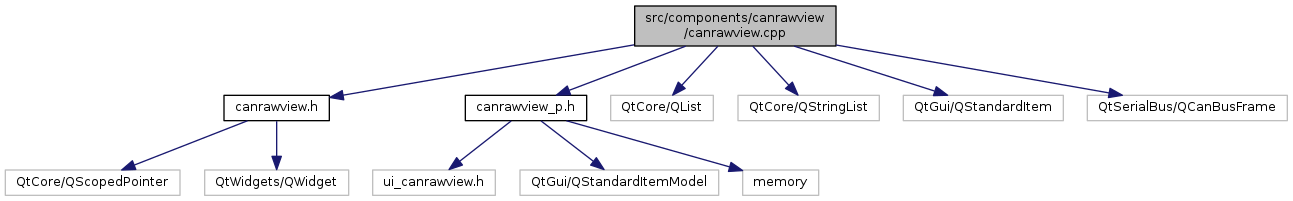
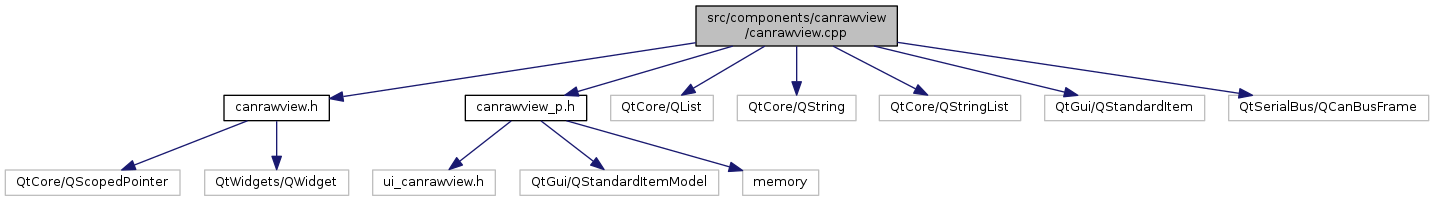
Deploy code docs to GitHub Pages Travis build: 132
Commit: 1a613c3db6896289bec6ee7756dc2443230962a5

diff --git a/master/canrawview_8h_source.html b/master/canrawview_8h_source.html
@@ -108,12 +108,12 @@ $(document).ready(function(){initNavTree('canrawview_8h_source.html','');});
 <div class="title">canrawview.h</div>  </div>
 </div><!--header-->
 <div class="contents">
-<a href="canrawview_8h.html">Go to the documentation of this file.</a><div class="fragment"><div class="line"><a name="l00001"></a><span class="lineno">    1</span>&#160;<span class="preprocessor">#ifndef CANRAWVIEW_H</span></div><div class="line"><a name="l00002"></a><span class="lineno">    2</span>&#160;<span class="preprocessor">#define CANRAWVIEW_H</span></div><div class="line"><a name="l00003"></a><span class="lineno">    3</span>&#160;</div><div class="line"><a name="l00004"></a><span class="lineno">    4</span>&#160;<span class="preprocessor">#include &lt;QtCore/QScopedPointer&gt;</span></div><div class="line"><a name="l00005"></a><span class="lineno">    5</span>&#160;<span class="preprocessor">#include &lt;QtWidgets/QWidget&gt;</span></div><div class="line"><a name="l00006"></a><span class="lineno">    6</span>&#160;</div><div class="line"><a name="l00007"></a><span class="lineno">    7</span>&#160;<span class="keyword">class </span>QCanBusFrame;</div><div class="line"><a name="l00008"></a><span class="lineno">    8</span>&#160;<span class="keyword">class </span><a class="code" href="class_can_raw_view_private.html">CanRawViewPrivate</a>;</div><div class="line"><a name="l00009"></a><span class="lineno">    9</span>&#160;</div><div class="line"><a name="l00010"></a><span class="lineno"><a class="line" href="class_can_raw_view.html">   10</a></span>&#160;<span class="keyword">class </span><a class="code" href="class_can_raw_view.html">CanRawView</a> : <span class="keyword">public</span> QWidget {</div><div class="line"><a name="l00011"></a><span class="lineno">   11</span>&#160;    Q_OBJECT</div><div class="line"><a name="l00012"></a><span class="lineno">   12</span>&#160;    Q_DECLARE_PRIVATE(<a class="code" href="class_can_raw_view.html">CanRawView</a>)</div><div class="line"><a name="l00013"></a><span class="lineno">   13</span>&#160;</div><div class="line"><a name="l00014"></a><span class="lineno">   14</span>&#160;<span class="keyword">public</span>:</div><div class="line"><a name="l00015"></a><span class="lineno">   15</span>&#160;    <span class="keyword">explicit</span> <a class="code" href="class_can_raw_view.html#aaf91e5f6b28327de98007f9ed9616088">CanRawView</a>(QWidget* parent = <span class="keyword">nullptr</span>);</div><div class="line"><a name="l00016"></a><span class="lineno">   16</span>&#160;    <a class="code" href="class_can_raw_view.html#a61e97fe7ae8b79740408311f4a243f82">~CanRawView</a>();</div><div class="line"><a name="l00017"></a><span class="lineno">   17</span>&#160;</div><div class="line"><a name="l00018"></a><span class="lineno">   18</span>&#160;<span class="keyword">public</span> Q_SLOTS:</div><div class="line"><a name="l00019"></a><span class="lineno">   19</span>&#160;    <span class="keywordtype">void</span> <a class="code" href="class_can_raw_view.html#ace7bb231aa483369b389d02b353a8a17">frameReceived</a>(<span class="keyword">const</span> QCanBusFrame&amp; frame);</div><div class="line"><a name="l00020"></a><span class="lineno">   20</span>&#160;    <span class="keywordtype">void</span> <a class="code" href="class_can_raw_view.html#ae5aef25b6a5ff05c8b645479972b3bcc">frameSent</a>(<span class="keywordtype">bool</span> status, <span class="keyword">const</span> QCanBusFrame&amp; frame, <span class="keyword">const</span> QVariant&amp; context);</div><div class="line"><a name="l00021"></a><span class="lineno">   21</span>&#160;</div><div class="line"><a name="l00022"></a><span class="lineno">   22</span>&#160;<span class="keyword">private</span>:</div><div class="line"><a name="l00023"></a><span class="lineno">   23</span>&#160;    QScopedPointer&lt;CanRawViewPrivate&gt; d_ptr;</div><div class="line"><a name="l00024"></a><span class="lineno">   24</span>&#160;};</div><div class="line"><a name="l00025"></a><span class="lineno">   25</span>&#160;</div><div class="line"><a name="l00026"></a><span class="lineno">   26</span>&#160;<span class="preprocessor">#endif // CANRAWVIEW_H</span></div><div class="ttc" id="class_can_raw_view_html"><div class="ttname"><a href="class_can_raw_view.html">CanRawView</a></div><div class="ttdef"><b>Definition:</b> canrawview.h:10</div></div>
-<div class="ttc" id="class_can_raw_view_html_a61e97fe7ae8b79740408311f4a243f82"><div class="ttname"><a href="class_can_raw_view.html#a61e97fe7ae8b79740408311f4a243f82">CanRawView::~CanRawView</a></div><div class="ttdeci">~CanRawView()</div><div class="ttdef"><b>Definition:</b> canrawview.cpp:17</div></div>
+<a href="canrawview_8h.html">Go to the documentation of this file.</a><div class="fragment"><div class="line"><a name="l00001"></a><span class="lineno">    1</span>&#160;<span class="preprocessor">#ifndef CANRAWVIEW_H</span></div><div class="line"><a name="l00002"></a><span class="lineno">    2</span>&#160;<span class="preprocessor">#define CANRAWVIEW_H</span></div><div class="line"><a name="l00003"></a><span class="lineno">    3</span>&#160;</div><div class="line"><a name="l00004"></a><span class="lineno">    4</span>&#160;<span class="preprocessor">#include &lt;QtCore/QScopedPointer&gt;</span></div><div class="line"><a name="l00005"></a><span class="lineno">    5</span>&#160;<span class="preprocessor">#include &lt;QtWidgets/QWidget&gt;</span></div><div class="line"><a name="l00006"></a><span class="lineno">    6</span>&#160;</div><div class="line"><a name="l00007"></a><span class="lineno">    7</span>&#160;<span class="keyword">class </span>QCanBusFrame;</div><div class="line"><a name="l00008"></a><span class="lineno">    8</span>&#160;<span class="keyword">class </span><a class="code" href="class_can_raw_view_private.html">CanRawViewPrivate</a>;</div><div class="line"><a name="l00009"></a><span class="lineno">    9</span>&#160;</div><div class="line"><a name="l00010"></a><span class="lineno"><a class="line" href="class_can_raw_view.html">   10</a></span>&#160;<span class="keyword">class </span><a class="code" href="class_can_raw_view.html">CanRawView</a> : <span class="keyword">public</span> QWidget {</div><div class="line"><a name="l00011"></a><span class="lineno">   11</span>&#160;    Q_OBJECT</div><div class="line"><a name="l00012"></a><span class="lineno">   12</span>&#160;    Q_DECLARE_PRIVATE(<a class="code" href="class_can_raw_view.html">CanRawView</a>)</div><div class="line"><a name="l00013"></a><span class="lineno">   13</span>&#160;</div><div class="line"><a name="l00014"></a><span class="lineno">   14</span>&#160;<span class="keyword">public</span>:</div><div class="line"><a name="l00015"></a><span class="lineno">   15</span>&#160;    <span class="keyword">explicit</span> <a class="code" href="class_can_raw_view.html#aaf91e5f6b28327de98007f9ed9616088">CanRawView</a>(QWidget* parent = <span class="keyword">nullptr</span>);</div><div class="line"><a name="l00016"></a><span class="lineno">   16</span>&#160;    <a class="code" href="class_can_raw_view.html#a61e97fe7ae8b79740408311f4a243f82">~CanRawView</a>();</div><div class="line"><a name="l00017"></a><span class="lineno">   17</span>&#160;</div><div class="line"><a name="l00018"></a><span class="lineno">   18</span>&#160;<span class="keyword">public</span> Q_SLOTS:</div><div class="line"><a name="l00019"></a><span class="lineno">   19</span>&#160;    <span class="keywordtype">void</span> <a class="code" href="class_can_raw_view.html#ace7bb231aa483369b389d02b353a8a17">frameReceived</a>(<span class="keyword">const</span> QCanBusFrame&amp; frame);</div><div class="line"><a name="l00020"></a><span class="lineno">   20</span>&#160;    <span class="keywordtype">void</span> <a class="code" href="class_can_raw_view.html#ae5aef25b6a5ff05c8b645479972b3bcc">frameSent</a>(<span class="keywordtype">bool</span> status, <span class="keyword">const</span> QCanBusFrame&amp; frame, <span class="keyword">const</span> QVariant&amp; context);</div><div class="line"><a name="l00021"></a><span class="lineno">   21</span>&#160;</div><div class="line"><a name="l00022"></a><span class="lineno">   22</span>&#160;<span class="keyword">private</span>:</div><div class="line"><a name="l00023"></a><span class="lineno">   23</span>&#160;    <span class="keywordtype">void</span> frameView(<span class="keyword">const</span> QCanBusFrame&amp; frame, <span class="keyword">const</span> QString&amp; direction);</div><div class="line"><a name="l00024"></a><span class="lineno">   24</span>&#160;</div><div class="line"><a name="l00025"></a><span class="lineno">   25</span>&#160;    QScopedPointer&lt;CanRawViewPrivate&gt; d_ptr;</div><div class="line"><a name="l00026"></a><span class="lineno">   26</span>&#160;};</div><div class="line"><a name="l00027"></a><span class="lineno">   27</span>&#160;</div><div class="line"><a name="l00028"></a><span class="lineno">   28</span>&#160;<span class="preprocessor">#endif // CANRAWVIEW_H</span></div><div class="ttc" id="class_can_raw_view_html"><div class="ttname"><a href="class_can_raw_view.html">CanRawView</a></div><div class="ttdef"><b>Definition:</b> canrawview.h:10</div></div>
+<div class="ttc" id="class_can_raw_view_html_a61e97fe7ae8b79740408311f4a243f82"><div class="ttname"><a href="class_can_raw_view.html#a61e97fe7ae8b79740408311f4a243f82">CanRawView::~CanRawView</a></div><div class="ttdeci">~CanRawView()</div><div class="ttdef"><b>Definition:</b> canrawview.cpp:18</div></div>
 <div class="ttc" id="class_can_raw_view_private_html"><div class="ttname"><a href="class_can_raw_view_private.html">CanRawViewPrivate</a></div><div class="ttdef"><b>Definition:</b> canrawview_p.h:12</div></div>
-<div class="ttc" id="class_can_raw_view_html_aaf91e5f6b28327de98007f9ed9616088"><div class="ttname"><a href="class_can_raw_view.html#aaf91e5f6b28327de98007f9ed9616088">CanRawView::CanRawView</a></div><div class="ttdeci">CanRawView(QWidget *parent=nullptr)</div><div class="ttdef"><b>Definition:</b> canrawview.cpp:8</div></div>
-<div class="ttc" id="class_can_raw_view_html_ace7bb231aa483369b389d02b353a8a17"><div class="ttname"><a href="class_can_raw_view.html#ace7bb231aa483369b389d02b353a8a17">CanRawView::frameReceived</a></div><div class="ttdeci">void frameReceived(const QCanBusFrame &amp;frame)</div><div class="ttdef"><b>Definition:</b> canrawview.cpp:21</div></div>
-<div class="ttc" id="class_can_raw_view_html_ae5aef25b6a5ff05c8b645479972b3bcc"><div class="ttname"><a href="class_can_raw_view.html#ae5aef25b6a5ff05c8b645479972b3bcc">CanRawView::frameSent</a></div><div class="ttdeci">void frameSent(bool status, const QCanBusFrame &amp;frame, const QVariant &amp;context)</div><div class="ttdef"><b>Definition:</b> canrawview.cpp:40</div></div>
+<div class="ttc" id="class_can_raw_view_html_aaf91e5f6b28327de98007f9ed9616088"><div class="ttname"><a href="class_can_raw_view.html#aaf91e5f6b28327de98007f9ed9616088">CanRawView::CanRawView</a></div><div class="ttdeci">CanRawView(QWidget *parent=nullptr)</div><div class="ttdef"><b>Definition:</b> canrawview.cpp:9</div></div>
+<div class="ttc" id="class_can_raw_view_html_ace7bb231aa483369b389d02b353a8a17"><div class="ttname"><a href="class_can_raw_view.html#ace7bb231aa483369b389d02b353a8a17">CanRawView::frameReceived</a></div><div class="ttdeci">void frameReceived(const QCanBusFrame &amp;frame)</div><div class="ttdef"><b>Definition:</b> canrawview.cpp:43</div></div>
+<div class="ttc" id="class_can_raw_view_html_ae5aef25b6a5ff05c8b645479972b3bcc"><div class="ttname"><a href="class_can_raw_view.html#ae5aef25b6a5ff05c8b645479972b3bcc">CanRawView::frameSent</a></div><div class="ttdeci">void frameSent(bool status, const QCanBusFrame &amp;frame, const QVariant &amp;context)</div><div class="ttdef"><b>Definition:</b> canrawview.cpp:45</div></div>
 </div><!-- fragment --></div><!-- contents -->
 </div><!-- doc-content -->
 <!-- start footer part -->

diff --git a/master/canrawview_8cpp.html b/master/canrawview_8cpp.html
@@ -111,6 +111,7 @@ $(document).ready(function(){initNavTree('canrawview_8cpp.html','');});
 <div class="textblock"><code>#include &quot;<a class="el" href="canrawview_8h_source.html">canrawview.h</a>&quot;</code><br />
 <code>#include &quot;<a class="el" href="canrawview__p_8h_source.html">canrawview_p.h</a>&quot;</code><br />
 <code>#include &lt;QtCore/QList&gt;</code><br />
+<code>#include &lt;QtCore/QString&gt;</code><br />
 <code>#include &lt;QtCore/QStringList&gt;</code><br />
 <code>#include &lt;QtGui/QStandardItem&gt;</code><br />
 <code>#include &lt;QtSerialBus/QCanBusFrame&gt;</code><br />
